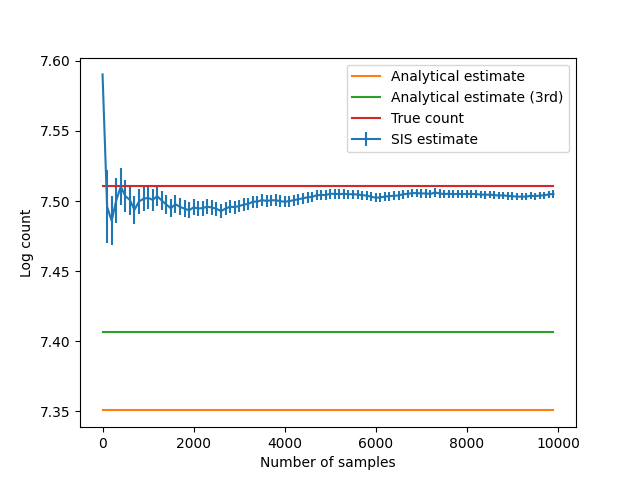
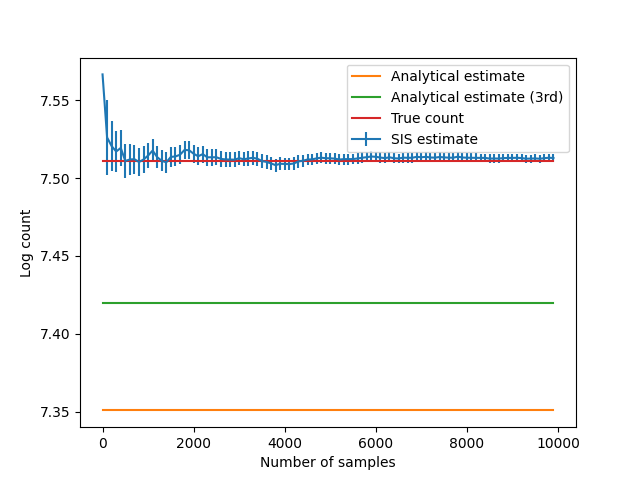
Fixed too few samples giving small error

diff --git a/src/matrix_count/count.py b/src/matrix_count/count.py
@@ -6,7 +6,7 @@ import numpy as np
 from matrix_count.sample import *
 
 
-def count_log_symmetric_matrices(row_sums, *, diagonal_sum=None, index_partition=None, block_sums=None, alpha=1.0, estimate_order=3, max_samples=1000, error_target=0.01, verbose=False):
+def count_log_symmetric_matrices(row_sums, *, diagonal_sum=None, index_partition=None, block_sums=None, alpha=1.0, estimate_order=3, max_samples=1000, error_target=0.001, seed=None, verbose=False):
     """Dirichlet-multinomial moment-matching estimate of the logarithm 
         of the number of symmetric non-negative matrices with given row sums.
 
@@ -31,6 +31,8 @@ def count_log_symmetric_matrices(row_sums, *, diagonal_sum=None, index_partition
     :type max_samples: int, optional
     :param error_target: Target absolute error in the logarithm of the count. Defaults to 0.01.
     :type error_target: float, optional
+    :param seed: Seed for the random number generator. Defaults to None.
+    :type seed: int, optional
     :param verbose: Whether to print details of calculation. Defaults to False. 
     :type verbose: bool, optional
     :return log_count_est: The logarithm of the number of symmetric matrices under given conditions
@@ -50,12 +52,19 @@ def count_log_symmetric_matrices(row_sums, *, diagonal_sum=None, index_partition
     if hardcoded_result is not None:
         return (hardcoded_result, 0) # No error in the hardcoded cases
     
+    # Set seed if provided
+    if seed is not None:
+        np.random.seed(seed)
+
     # Sample the matrices
+    MIN_NUM_SAMPLES = 10 # Minimum number of samples to take
     entropies = []
     log_count_est = 0 # Estimated log count
     log_count_err_est = np.inf # Estimated error in the log count
-    for i in range(max_samples):
-        (sample, entropy) = sample_symmetric_matrix(row_sums, diagonal_sum=diagonal_sum, index_partition=index_partition, block_sums=block_sums, alpha=alpha, verbose=verbose)
+    for sample_num in range(max_samples):
+        # Seed to use for this sample
+        sample_seed = np.random.randint(0, 2**31-1) # If the integer is too large it screws up the pybind wrapper
+        (sample, entropy) = sample_symmetric_matrix(row_sums, diagonal_sum=diagonal_sum, index_partition=index_partition, block_sums=block_sums, alpha=alpha, seed=sample_seed, verbose=verbose)
         entropy = entropy + _util._log_weight(sample, alpha) # Really should be averaging w(A)/Q(A), entropy = -log Q(A)
         entropies.append(entropy)
         log_count_est = _util._log_sum_exp(entropies) - np.log(len(entropies))
@@ -65,8 +74,8 @@ def count_log_symmetric_matrices(row_sums, *, diagonal_sum=None, index_partition
         if logE2 - 2*logE > 0.0001: # Estimate the error by the standard deviation of the counts TODO: treat this better
             log_std = 0.5 * (np.log(np.exp(0) - np.exp(2*logE - logE2)) + logE2)
             log_count_err_est = np.exp(log_std - 0.5 * np.log(len(entropies)) - logE)
-            if log_count_err_est < error_target: # Terminate if the error is below the target
+            if log_count_err_est < error_target and sample_num > MIN_NUM_SAMPLES: # Terminate if the error is below the target and we have taken enough samples
                 break 
-    
+
     return (log_count_est, log_count_err_est)
 

diff --git a/tests/test_count.py b/tests/test_count.py
@@ -8,11 +8,12 @@ def test_count_log_symmetric_matrices_no_constraints():
     sigma_error = 5 # Number of standard deviations to check within
 
     # 20,11,3
-    (log_count_est, log_count_est_err) = count_log_symmetric_matrices([20,11,3])
+    test_margin = [20,11,3]
+    (log_count_est, log_count_est_err) = count_log_symmetric_matrices(test_margin)
     log_count_true = np.log(34)
     assert log_count_est == approx(log_count_true, abs=sigma_error*log_count_est_err) # Chance that this just randomly fails
     
-    (log_count_est, log_count_est_err) = count_log_symmetric_matrices([20,11,3], alpha=5)
+    (log_count_est, log_count_est_err) = count_log_symmetric_matrices(test_margin, alpha=5)
     log_count_true = np.log(693809375)
     assert log_count_est == approx(log_count_true, abs=sigma_error*log_count_est_err) # Chance that this just randomly fails
 
@@ -24,7 +25,7 @@ def test_count_log_symmetric_matrices_no_constraints():
     (log_count_est, log_count_est_err) = count_log_symmetric_matrices([3,3,3,3,2,2], alpha=5)
     log_count_true = 19.8828
     assert log_count_est == approx(log_count_true, abs=sigma_error*log_count_est_err) # Chance that this just randomly fails
-    
+        
 
 def test_count_log_symmetric_matrices_diagonal_sum():
     sigma_error = 5 # Number of standard deviations to check within
@@ -39,11 +40,12 @@ def test_count_log_symmetric_matrices_diagonal_sum():
     assert log_count_est == approx(log_count_true, abs=sigma_error*log_count_est_err) # Chance that this just randomly fails
 
     # 3,3,3,3,2,2
-    (log_count_est, log_count_est_err) = count_log_symmetric_matrices([3,3,3,3,2,2], diagonal_sum=10)
+    test_margin = [3,3,3,3,2,2]
+    (log_count_est, log_count_est_err) = count_log_symmetric_matrices(test_margin, diagonal_sum=10)
     log_count_true = 2.77259
     assert log_count_est == approx(log_count_true, abs=sigma_error*log_count_est_err) # Chance that this just randomly fails
     
-    (log_count_est, log_count_est_err) = count_log_symmetric_matrices([3,3,3,3,2,2], alpha=5, diagonal_sum=10)
+    (log_count_est, log_count_est_err) = count_log_symmetric_matrices(test_margin, alpha=5, diagonal_sum=10)
     log_count_true = 15.6481
     assert log_count_est == approx(log_count_true, abs=sigma_error*log_count_est_err) # Chance that this just randomly fails
     

diff --git a/examples/errors.py b/examples/errors.py
@@ -1,0 +1,36 @@
+# Checking that the reported errors are resonable
+
+import matrix_count
+
+import numpy as np
+
+import matplotlib.pyplot as plt
+
+test_margin = [3,3,3,3,2,2]
+true_count = np.exp(7.51098)
+
+est_counts = []
+est_errs = []
+z_scores = []
+
+num_trials = 250
+
+for trial_num in range(num_trials):
+    (log_count_est, log_count_est_err) = matrix_count.count_log_symmetric_matrices(test_margin)
+    est_counts.append(log_count_est)
+    est_errs.append(log_count_est_err)
+    z_scores.append((log_count_est - np.log(true_count)) / log_count_est_err)
+
+# Plot a histogram of the z-scores
+plt.clf()
+plt.hist(z_scores, bins=20)
+plt.xlabel("Z-score")
+plt.ylabel("Frequency")
+plt.savefig("errors.png")
+
+# Can observe that the z scores are roughly distributed as a unit Gaussian with mean 0 and standard deviation 1 as we would expect
+print("Mean of the z-scores:", np.mean(z_scores))
+print("Standard deviation of the z-scores:", np.std(z_scores))
+
+# # Example where our reported error is way too small
+# matrix_count.count_log_symmetric_matrices(test_margin, max_samples=1000, seed = 25)

diff --git a/examples/sample.py b/examples/sample.py
@@ -47,7 +47,7 @@ logEs = np.array(logEs)
 log_count_err_ests = np.array(log_count_err_ests)
 inds = np.arange(len(logEs), step=plot_frequency)
 plt.errorbar(inds,logEs[inds], yerr=log_count_err_ests[inds], label="SIS estimate")
-plt.plot(inds,estimate*np.ones(len(inds)), label="Analytical estimate")
+plt.plot(inds,estimate*np.ones(len(inds)), label="Analytical estimate (2nd)")
 plt.plot(inds,estimate_3*np.ones(len(inds)), label="Analytical estimate (3rd)")
 if true_count is not None:
     plt.plot(inds,np.log(true_count)*np.ones(len(inds)), label="True count")

diff --git a/examples/testing.py b/examples/testing.py
@@ -1,8 +1,3 @@
 from matrix_count import _util
 import numpy as np
 
-
-
-print(_util._log_sum_exp([1,2,3])) # 3.4076059644443806
-
-print(np.real(np.exp(_util._log_sum_exp([np.log(4),np.log(-1+0j)+np.log(1),np.log(-1+0j)+np.log(1),np.log(0)]))))

diff --git a/examples/paper/README.md b/examples/paper/README.md
@@ -1,0 +1,10 @@
+Figure generation for the paper
+===============================
+
+- Figure showing the typical performance of the symmetric estimate. 
+
+- Figure with performace of the symmetric estimate on real degree sequences.
+
+- Figure showing the typical performance of the symmetric estimate for generalized weighting. 
+
+- Figure showing the typical performance of the asymmetric estimate.
